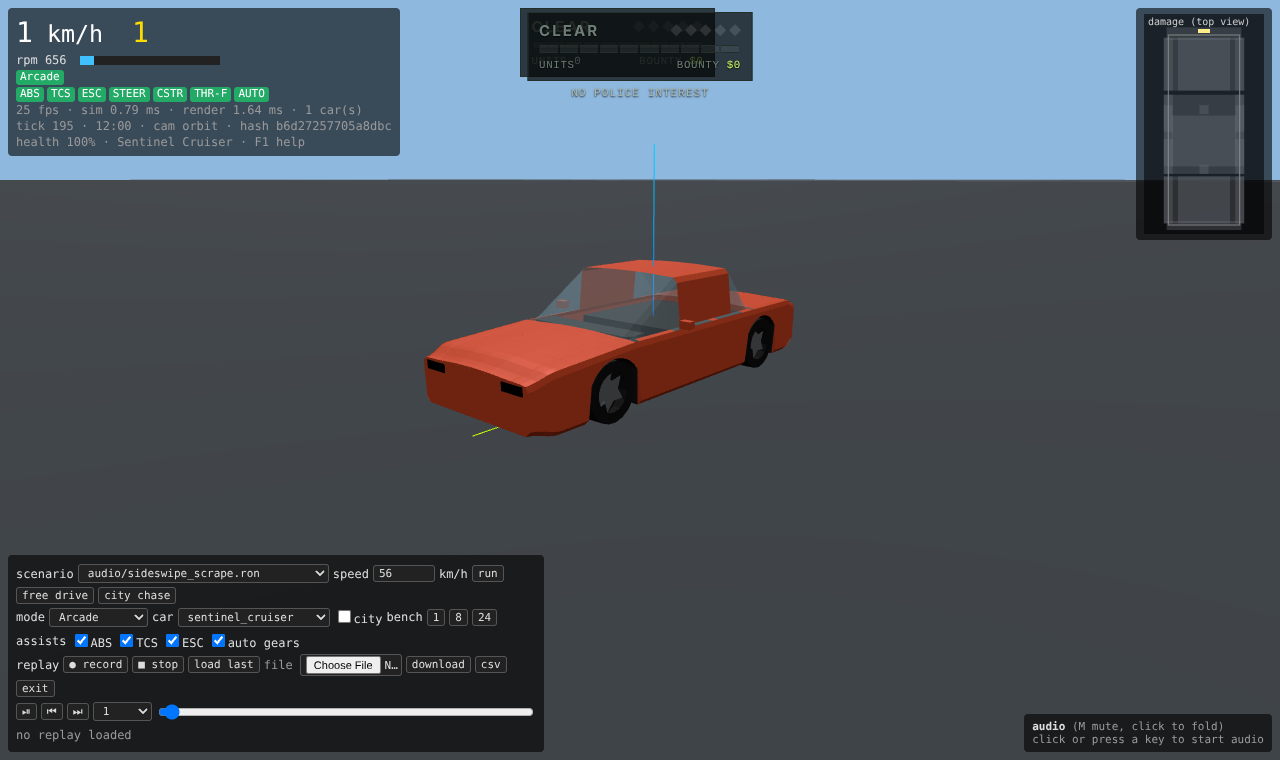
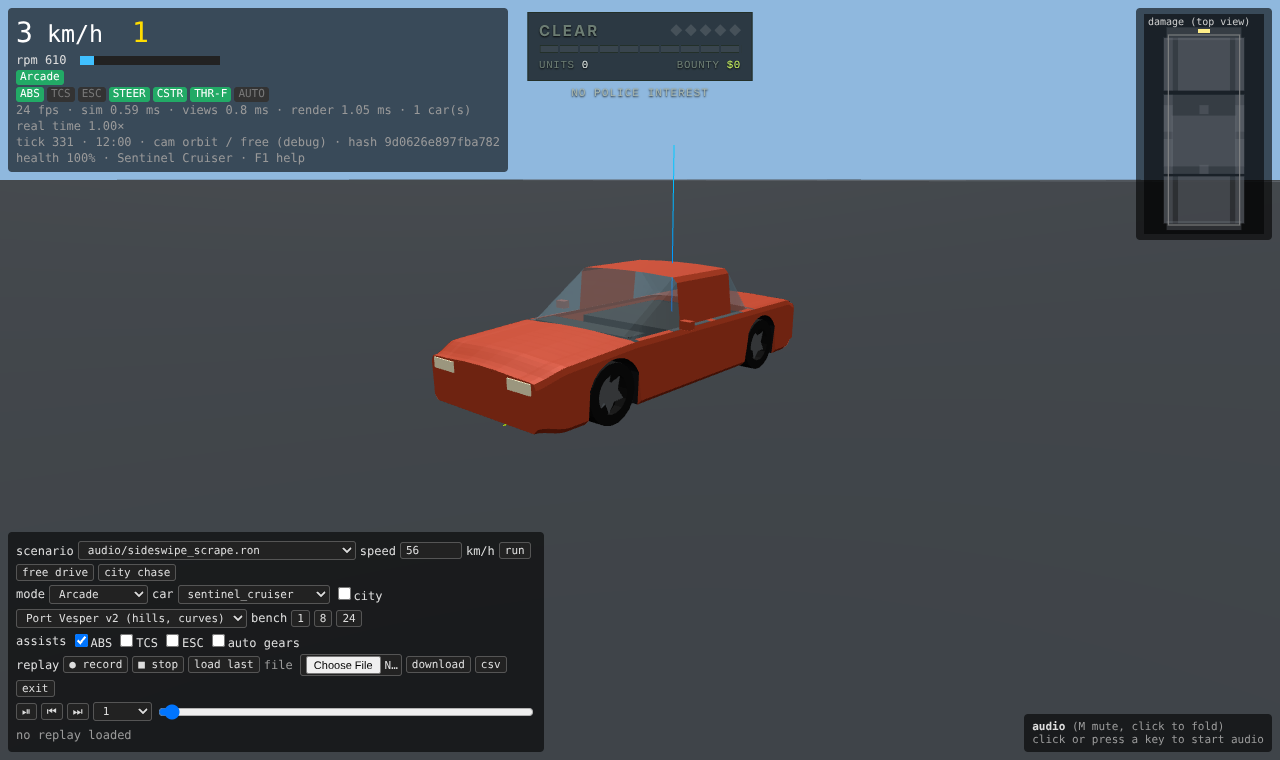
testbed/render: hood/trunk fold from crushed chords, lights break when crushed or their panel hangs, lens normals (lights rendered black); drop lead lamp markers on panel bodies; 56 km/h frontal scenario + browser checks + before/after shots
Claude-Session: https://claude.ai/code/session_01NVZQvCkE6FH5G5P4NqUW5F

diff --git a/apps/testbed-web/src/render/panels.ts b/apps/testbed-web/src/render/panels.ts
@@ -32,6 +32,30 @@ export interface MeshPartJson {
   indices: number[];
   skin_nodes: number[];
   skin_weights: number[];
+  /** Hood / trunk lid: lattice node pairs hinge row → latch row, sorted by rest x (format 2). */
+  fold_chords?: [number, number][];
+  /** 2 per vertex in 1/255: crease shape, rear-edge lift (format 2). */
+  fold_weights?: number[];
+}
+
+/** Lost chord length a lid absorbs before it buckles, m (mirrors tools/assets FOLD_DEAD_ZONE_M). */
+const FOLD_DEAD_ZONE_M = 0.015;
+/** Largest fold height, m (FOLD_MAX_M). */
+const FOLD_MAX_M = 0.3;
+/** Rear-edge lift of an unlatched lid, share of the fold height (FOLD_REAR_LIFT). */
+const FOLD_REAR_LIFT = 0.45;
+/** A light lens breaks once one of its vertices is pushed this far (m) by the crush. */
+const LIGHT_BREAK_M = 0.05;
+
+/**
+ * Fold height (m) of a lid whose hinge→latch chord measured `rest` and now measures `now`: an
+ * inextensible strip pushed together rises into a tent (mirrors tools/assets `fold_height`).
+ */
+export function foldHeight(rest: number, now: number): number {
+  if (rest <= 1e-3) return 0;
+  const lost = Math.max(0, rest - now - FOLD_DEAD_ZONE_M);
+  const k = 1 - Math.min(lost / rest, 0.5);
+  return Math.min(0.5 * rest * Math.sqrt(1 - k * k), FOLD_MAX_M);
 }
 
 /** data/panels/meshes/<car>.json (`CarMesh`). */
@@ -78,6 +102,15 @@ interface PartRT {
   /** Index into `info.regions`, -1 for wheel parts. */
   region: number;
   hidden: boolean;
+  /** Fold chords (node pairs) with their rest x, and per-vertex crease / rear-lift weights. */
+  fold: { a: number; b: number; x: number }[];
+  foldW: Float32Array;
+  /** Light lenses: broken (crushed or their bumper hangs), drawn dark without glow. */
+  broken: boolean;
+  /** Largest vertex displacement from rest at the last update, m (lights: break check; tests). */
+  maxDisp: number;
+  /** Largest fold rise at the last update, m (tests). */
+  maxFold: number;
 }
 
 /** Rigid frame of a free panel: x' = R x + t. */
@@ -152,6 +185,10 @@ export class PanelBody {
   private parts: PartRT[] = [];
   private readonly regions: string[];
   private restNodes: Float32Array = new Float32Array(0);
+  /** Region index of every lattice node. */
+  private nodeRegions: Uint8Array = new Uint8Array(0);
+  /** Dark, unlit lens of a broken light. */
+  private readonly brokenLamp: THREE.Material;
   /** Region index → three node ids spanning the panel (frame fit), for panel regions. */
   private readonly tri = new Map<number, [number, number, number]>();
   private readonly frames = new Map<number, Frame>();
@@ -179,6 +216,7 @@ export class PanelBody {
       metal: std({ color: 0x9da3a8, metalness: 0.7, roughness: 0.35 }),
       interior: std({ color: 0x2b2724, roughness: 1 }),
     };
+    this.brokenLamp = std({ color: 0x2a2a2c, roughness: 0.6, metalness: 0.4 });
     bodies.set(entity, this);
     void loadCarMesh(carId).then((m) => m && this.build(m));
   }
@@ -197,6 +235,7 @@ export class PanelBody {
   private build(mesh: CarMeshJson): void {
     this.restNodes = sim.latticeRest(this.entity);
     const nodeRegions = sim.latticeRegions(this.entity);
+    this.nodeRegions = nodeRegions;
     for (const def of mesh.parts) {
       const n = def.positions_mm.length / 3;
       const rest = new Float32Array(n * 3);
@@ -208,6 +247,9 @@ export class PanelBody {
       for (let i = 0; i < uv.length; i++) uv[i] = def.uvs[i] / 65535;
       geom.setAttribute("uv", new THREE.BufferAttribute(uv, 2));
       geom.setIndex(def.indices);
+      // Lenses use the shared head/tail materials (not flat-shaded): without a normal attribute
+      // their shading turns NaN and the lens renders black, glow included.
+      if (def.kind === "light") geom.computeVertexNormals();
       const m = new THREE.Mesh(geom, this.mats[def.material]);
       m.name = def.name;
       m.frustumCulled = false;
@@ -220,7 +262,23 @@ export class PanelBody {
       this.root.add(m);
       const w = new Float32Array(def.skin_weights.length);
       for (let i = 0; i < w.length; i++) w[i] = def.skin_weights[i] / 255;
-      this.parts.push({ def, mesh: m, pos, rest, nodes: Uint16Array.from(def.skin_nodes), weights: w, region, hidden: false });
+      const fold = (def.fold_chords ?? []).map(([a, b]) => ({ a, b, x: this.restNodes[b * 3] }));
+      const foldW = Float32Array.from(def.fold_weights ?? [], (x) => x / 255);
+      this.parts.push({
+        def,
+        mesh: m,
+        pos,
+        rest,
+        nodes: Uint16Array.from(def.skin_nodes),
+        weights: w,
+        region,
+        hidden: false,
+        fold,
+        foldW,
+        broken: false,
+        maxDisp: 0,
+        maxFold: 0,
+      });
       if (region >= 0 && !this.tri.has(region)) this.tri.set(region, spanTriangle(this.restNodes, nodeRegions, region));
     }
     this.ready = true;
@@ -260,11 +318,23 @@ export class PanelBody {
     }
     const rn = this.restNodes;
     const tmp = new THREE.Vector3();
+    // Panel state per region index (absent = no panel there, i.e. fixed structure).
+    const stateOf = new Map<number, number>();
+    for (let k = 0; k + PANEL_STRIDE <= this.states.length; k += PANEL_STRIDE) stateOf.set(this.states[k], this.states[k + 1]);
     for (const p of this.parts) {
       if (p.hidden) continue;
       const f = p.region >= 0 ? this.frames.get(p.region) : undefined;
       const { rest, pos, nodes: ids, weights } = p;
       const nv = rest.length / 3;
+      // Lid fold: height per chord from its lost length (rigid frames keep lengths, so the
+      // current nodes are fine for swinging lids too).
+      const heights = p.fold.map((c) => ({
+        x: c.x,
+        h: foldHeight(nodeDist(rn, rn, c.a, c.b), nodeDist(nodes, nodes, c.a, c.b)),
+      }));
+      const rearLift = stateOf.get(p.region) === PANEL_STATE.unlatched ? FOLD_REAR_LIFT : 0;
+      let maxDisp = 0;
+      let maxFold = 0;
       for (let v = 0; v < nv; v++) {
         let dx = 0;
         let dy = 0;
@@ -285,6 +355,12 @@ export class PanelBody {
             dz += w * (nodes[i + 2] - rn[i + 2]);
           }
         }
+        if (heights.length > 0) {
+          // Buckle up (+Z of the lid's rest pose): crease shape plus, unlatched, the rear edge.
+          const rise = heightAt(heights, rest[v * 3]) * (p.foldW[v * 2] + rearLift * p.foldW[v * 2 + 1]);
+          dz += rise;
+          if (rise > maxFold) maxFold = rise;
+        }
         if (f) {
           tmp.set(rest[v * 3] + dx, rest[v * 3 + 1] + dy, rest[v * 3 + 2] + dz).applyMatrix3(f.r).add(f.t);
           pos[v * 3] = tmp.x;
@@ -295,9 +371,46 @@ export class PanelBody {
           pos[v * 3 + 1] = rest[v * 3 + 1] + dy;
           pos[v * 3 + 2] = rest[v * 3 + 2] + dz;
         }
+        const d2 = (pos[v * 3] - rest[v * 3]) ** 2 + (pos[v * 3 + 1] - rest[v * 3 + 1]) ** 2 + (pos[v * 3 + 2] - rest[v * 3 + 2]) ** 2;
+        if (d2 > maxDisp) maxDisp = d2;
       }
+      p.maxDisp = Math.sqrt(maxDisp);
+      p.maxFold = maxFold;
       (p.mesh.geometry.getAttribute("position") as THREE.BufferAttribute).needsUpdate = true;
+      if (p.def.kind === "light") {
+        this.updateLight(p, stateOf);
+        if (p.maxDisp > 1e-4) p.mesh.geometry.computeVertexNormals();
+      }
     }
+  }
+
+  /**
+   * A light lens breaks (dark, no glow) once the crush pushes it LIGHT_BREAK_M or the panel it
+   * is bound to hangs or falls off. Stateless, so a repaired car gets its lights back.
+   */
+  private updateLight(p: PartRT, stateOf: Map<number, number>): void {
+    let broken = p.maxDisp > LIGHT_BREAK_M;
+    for (let k = 0; !broken && k < p.nodes.length; k++) {
+      const s = stateOf.get(this.nodeRegions[p.nodes[k]]);
+      broken = s === PANEL_STATE.hanging || s === PANEL_STATE.detached;
+    }
+    if (broken !== p.broken) {
+      p.broken = broken;
+      p.mesh.material = broken ? this.brokenLamp : this.mats[p.def.material];
+    }
+  }
+
+  /** Per-part motion at the last update (tests): largest displacement and fold rise, m. */
+  partMotion(name: string): { disp: number; fold: number; broken: boolean } | null {
+    const p = this.parts.find((q) => q.def.name === name);
+    return p ? { disp: p.maxDisp, fold: p.maxFold, broken: p.broken } : null;
+  }
+
+  /** Light lenses: name, broken, and whether they show the shared head/tail material. */
+  lights(): { name: string; broken: boolean; material: THREE.Material; visible: boolean }[] {
+    return this.parts
+      .filter((p) => p.def.kind === "light")
+      .map((p) => ({ name: p.def.name, broken: p.broken, material: p.mesh.material as THREE.Material, visible: !p.hidden && p.mesh.visible }));
   }
 
   private hideRegion(region: number): void {
@@ -355,6 +468,23 @@ export class PanelBody {
     bodies.delete(this.entity);
     this.root.removeFromParent();
   }
+}
+
+/** Distance between node `a` of `pa` and node `b` of `pb` (xyz per node). */
+function nodeDist(pa: Float32Array, pb: Float32Array, a: number, b: number): number {
+  return Math.hypot(pa[a * 3] - pb[b * 3], pa[a * 3 + 1] - pb[b * 3 + 1], pa[a * 3 + 2] - pb[b * 3 + 2]);
+}
+
+/** Fold height at rest x, linear across x between chords (sorted by x). */
+function heightAt(hs: { x: number; h: number }[], x: number): number {
+  if (x <= hs[0].x) return hs[0].h;
+  for (let i = 1; i < hs.length; i++) {
+    if (x <= hs[i].x) {
+      const t = (x - hs[i - 1].x) / Math.max(hs[i].x - hs[i - 1].x, 1e-4);
+      return hs[i - 1].h + (hs[i].h - hs[i - 1].h) * t;
+    }
+  }
+  return hs[hs.length - 1].h;
 }
 
 /** Three nodes of `region` spanning the largest triangle (rest pose). */

diff --git a/apps/testbed-web/src/vehicle_view.ts b/apps/testbed-web/src/vehicle_view.ts
@@ -194,24 +194,6 @@ export class VehicleView {
     this.root.add(this.panels.root);
     this.panels.whenReady(() => {
       this.wheels.forEach((w, i) => this.panels.wheelParts[i].forEach((m) => w.spin.add(m)));
-      // The panel body is longer than the debug box: move the lamp markers onto its nose and
-      // tail so head and brake lights show (the mesh's own light parts sit inside the shell).
-      this.root.updateWorldMatrix(true, true);
-      const inv = new THREE.Matrix4().copy(this.root.matrixWorld).invert();
-      const box = new THREE.Box3();
-      this.panels.root.traverse((o) => {
-        const m = o as THREE.Mesh;
-        if (!m.isMesh || !m.geometry) return;
-        m.geometry.computeBoundingBox();
-        const b = m.geometry.boundingBox!.clone().applyMatrix4(m.matrixWorld).applyMatrix4(inv);
-        box.union(b);
-      });
-      if (box.isEmpty()) return;
-      for (const lamp of this.lamps) {
-        const front = lamp.position.y > 0;
-        lamp.position.y = front ? box.max.y + 0.01 : box.min.y - 0.01;
-        lamp.scale.set(1.3, 1, 1.4);
-      }
     });
 
     // CG marker (+ velocity arrow, which lives in world space; see update()).
@@ -254,9 +236,9 @@ export class VehicleView {
     const rebuild = this.shapeDirty;
     if (needNodes) this.shapeDirty = false;
     this.panels.root.visible = panelsOn;
-    // The panel meshes' own light parts sit inside the shell (machine R to fix in the mesh
-    // generator), so the lamp markers stay on with panels too: brake and head lights stay visible.
-    for (const lamp of this.lamps) lamp.visible = bodyOn;
+    // Panel meshes carry their own head/tail light lenses (shared head/tail materials, so the
+    // glow below still works); the box lamps only belong to the debug box body.
+    for (const lamp of this.lamps) lamp.visible = bodyOn && !panelsOn;
     for (const w of this.wheels)
       for (const c of w.spin.children) {
         const ours = this.panels.wheelParts.some((p) => p.includes(c as THREE.Mesh));
